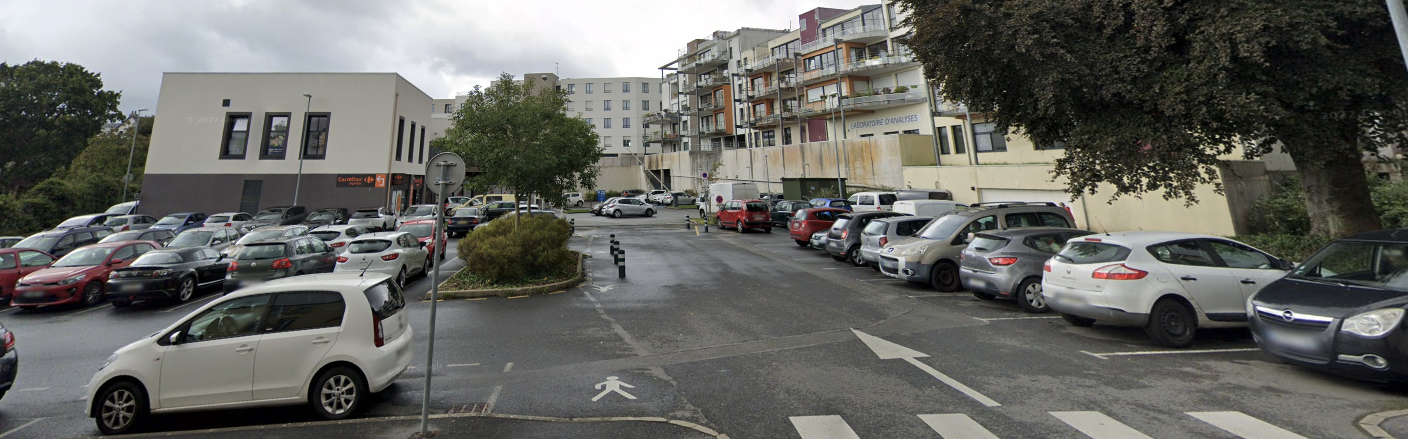
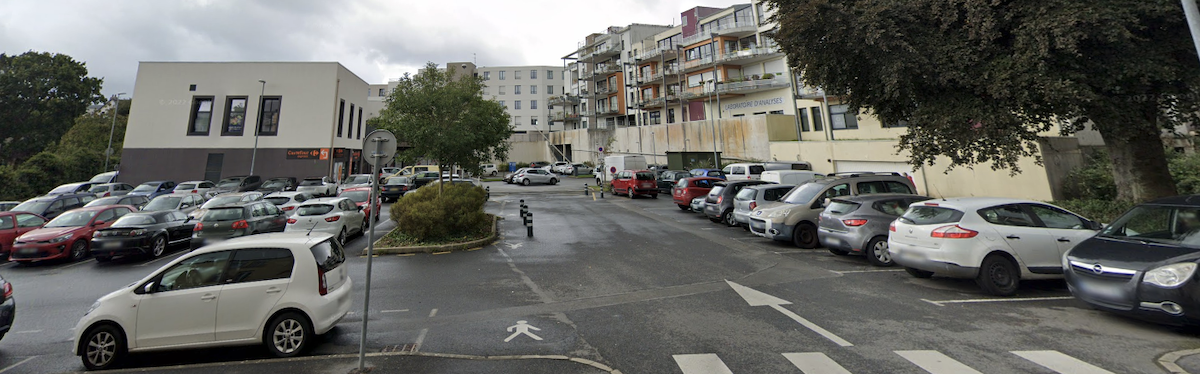
Fix: improve performance image and first load

Changed region(s): [[0.8633, 0.3235, 0.8942, 0.3529], [0.8017, 0.3824, 0.8325, 0.4118], [0.4317, 0.4412, 0.4625, 0.4706]]

diff --git a/src/components/HelloWorld.vue b/src/components/HelloWorld.vue
@@ -4,12 +4,11 @@
       <v-col>
         <v-card variant="tonal">
           <v-card-item>
-            <v-img
-              src="../assets/cabinet.jpg"
-              max-height="450"
-              cover
-              class="bg-grey-lighten-2"
-            ></v-img>
+            <v-img src="../assets/cabinet.jpg" max-height="450" cover class="bg-grey-lighten-2" aspect-ratio="16/9" alt="cabinet">
+              <template #sources>
+                <source srcset="../assets/cabinet.webp">
+              </template>
+            </v-img>
           </v-card-item>
         </v-card>
       </v-col>
@@ -103,10 +102,11 @@
             Adresse
           </v-card-title>
           <v-card-text class="text-body-1">
-            <v-img
-              src="../assets/address.png"
-              height="150px"
-            ></v-img>
+            <v-img src="../assets/address.png" height="150px" alt="address">
+              <template #sources>
+                <source srcset="../assets/address.webp">
+              </template>
+            </v-img>
             <br>50 rue Raymond Leaustic<br>29200 Brest<br><br>
             Afin de faciliter votre venue, nous vous conseillons de vous garer sur le parking <a href="https://goo.gl/maps/sFA67nRbY9yWNBmb6" target="_blank">7 rampe du vieux bourg</a> (zone bleue) face au Carrefour express.<br>Le cabinet se situe à l'étage.
           </v-card-text>

diff --git a/src/layouts/default/View.vue b/src/layouts/default/View.vue
@@ -13,7 +13,7 @@
 
 <style scoped>
 .hero {
-  background: url('../../assets/cabinetBlur1.jpg');
+  background: url('../../assets/cabinetBlur.jpg');
   background-size: cover;
 }
  .hero2 {
